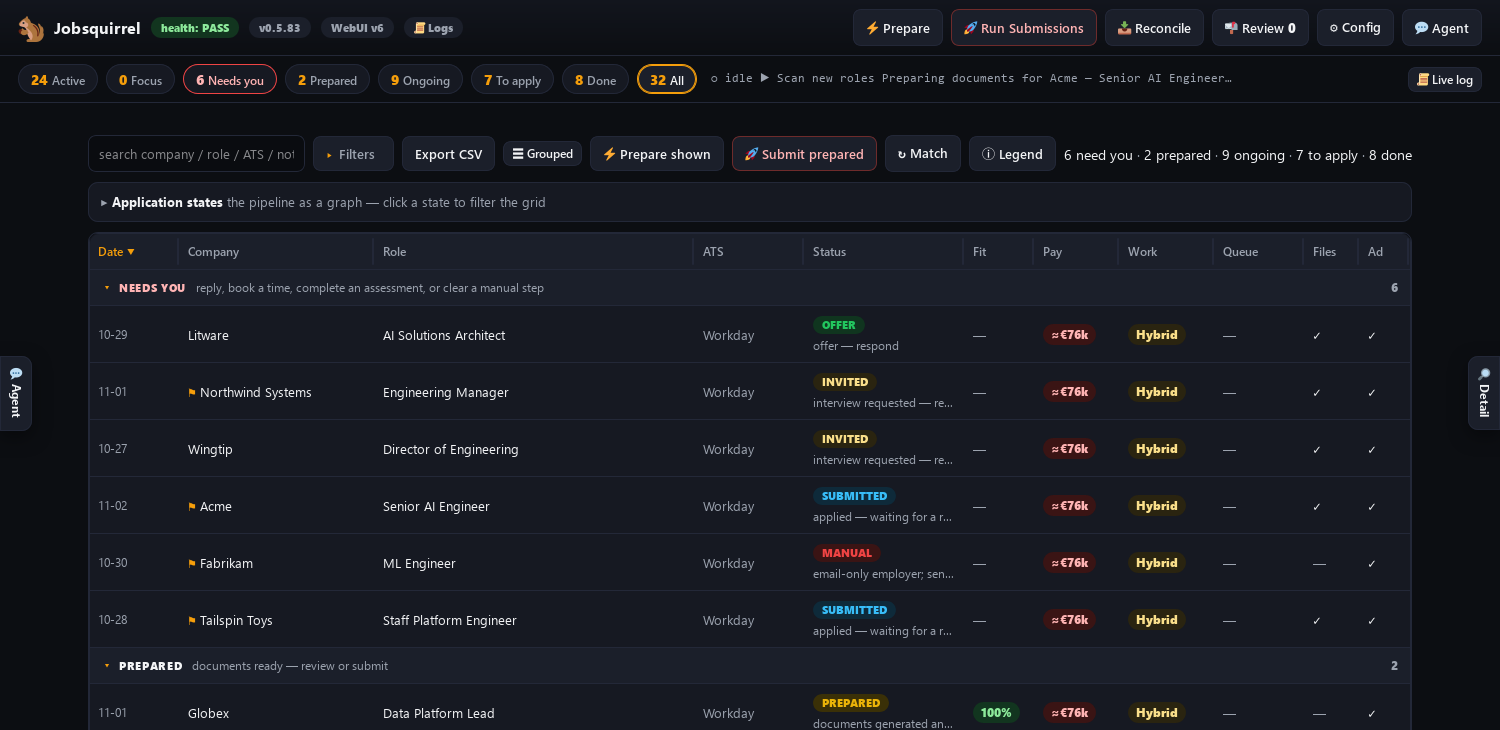
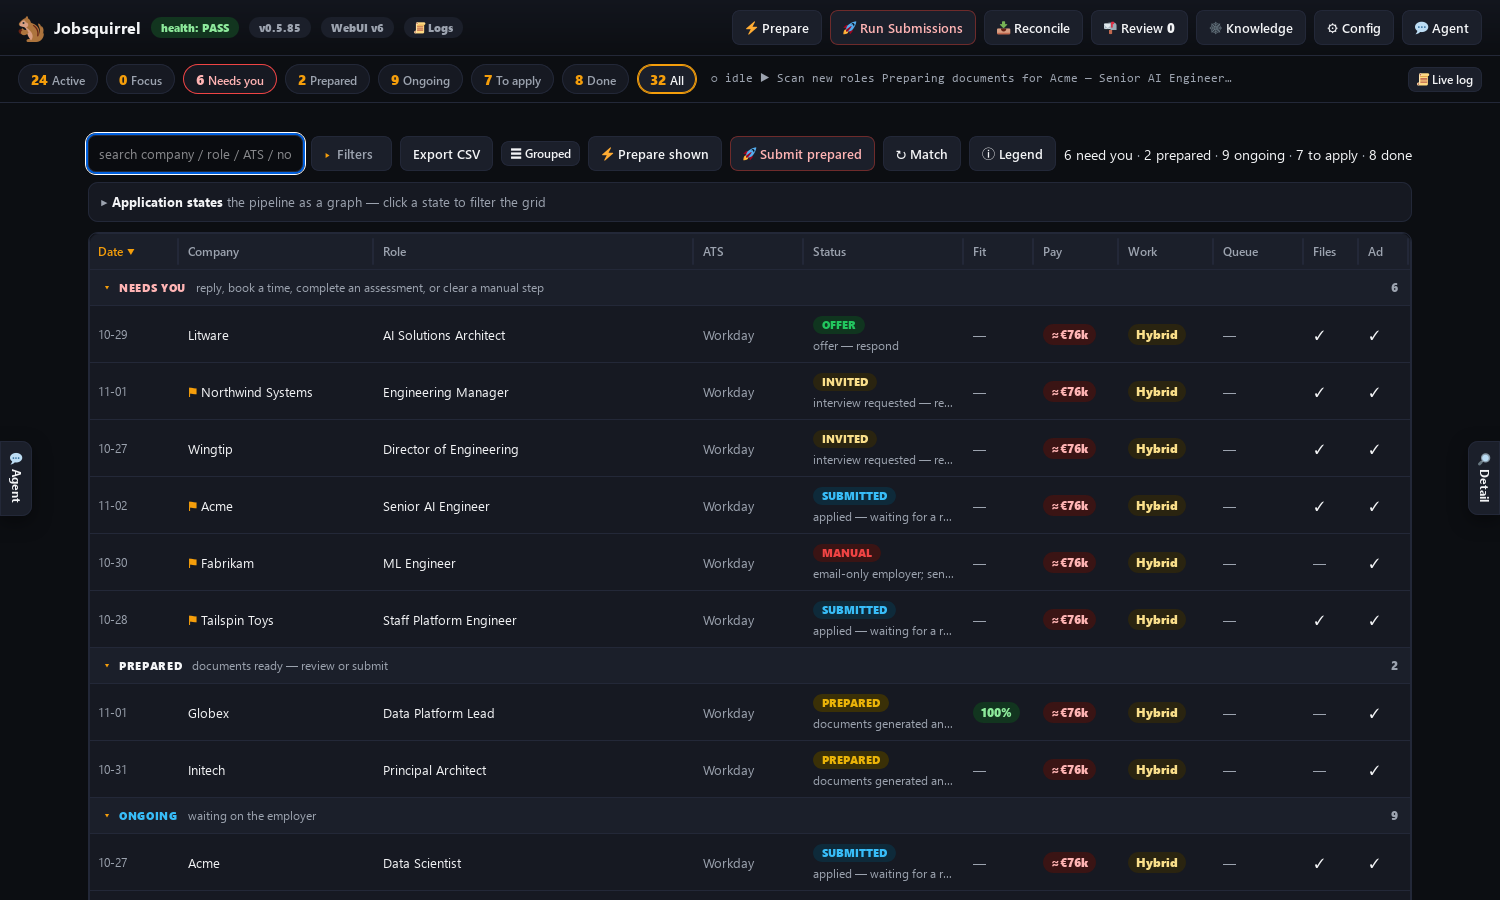
Refresh the documentation and screenshots
Update the product spec, architecture and usage guide for the full-page 3D
Knowledge workspace, the ontology, source management and the encrypted
Secrets store. Replace every dashboard screenshot with the current build
using demo data, and add the Knowledge workspace and Secrets shots.

diff --git a/docs/PRODUCT-SPEC.md b/docs/PRODUCT-SPEC.md
@@ -226,10 +226,12 @@ Clicking a row opens a drawer with tabs:
   open either in the viewer and to open the CV PDF; the raw content pack is behind a toggle.
 
 ### 9.5 Settings panel (⚙ Config)
-- Sections: **Accounts** (status + Gmail/Calendar authorisation), **AI & agent** (which agent CLI +
-  model picker + API-token env, and the GraphRAG LLM `.env`), **Knowledge base** (list / upload /
-  delete sources, rebuild the index), **GraphRAG** (browse entities / relationships / communities /
-  documents), **Agent permissions** (per-category allow/ask/deny), **Profile & CV** (edit files, regenerate).
+- Sections: **Accounts** (status + Gmail/Calendar authorisation), **Secrets** (the encrypted
+  store: agent keys, GraphRAG, Google OAuth, per-site logins and custom entries, masked),
+  **AI & agent** (which agent CLI + model picker + API-token env, and the GraphRAG LLM settings),
+  **Knowledge base** (list / upload / delete sources, rebuild the index), **GraphRAG** (a status card
+  and launcher for the full-page Knowledge workspace), **Agent permissions**
+  (per-category allow/ask/deny), **Profile & CV** (edit files, regenerate), **Backup & data**.
 
 ### 9.5b Agent permission gate (agent-agnostic)
 - Policy in `config/agent-permissions.json`: `read_repo`/`write_repo` (default **allow**),
@@ -276,6 +278,16 @@ Clicking a row opens a drawer with tabs:
 | GET | `/api/accounts` | — | credential status (runs `setup_accounts.sh --check`) |
 | GET | `/api/kb` | — | {sources, stats, check} |
 | GET | `/api/graph` | `kind,q,limit` | graph rows from the index (entities/relationships/communities/documents) |
+| GET | `/api/graph/ontology` | — | ontology classes, relation vocabulary and counts |
+| GET | `/api/graph/types` | `limit` | canonical classes with aggregate links |
+| GET | `/api/graph/type` | `type,limit` | largest connected component for one class |
+| GET | `/api/graph/overview` | `parent,limit` | community hierarchy (roots or children) |
+| GET | `/api/graph/community` | `id,limit` | children of a community or its leaf entities |
+| GET | `/api/graph/search` | `q,limit` | matching communities and entities |
+| GET | `/api/graph/ego` | `q,limit` | one entity plus its 1-hop network |
+| GET | `/api/kb/find` | `name` | resolve a graph document title to a `kb/sources/` file |
+| GET/POST | `/api/secrets` | — / `{section,name,value}` | masked secrets store read / write |
+| POST | `/api/secrets/delete` · `/api/secrets/encrypt` · `/api/secrets/migrate` | — | remove, encrypt or import |
 | GET | `/api/grounding` | `key` | a role's context pack + the entities/sources it cited, resolved |
 | GET | `/api/runs` · `/api/log` · `/api/live` · `/api/tasks` · `/api/logs/tail` · `/api/agent` · `/api/chat/stream` | — | as named |
 | POST | `/api/register/row` | `{company,role,status,notes}` | update a register row |
@@ -309,12 +321,27 @@ All POSTs require header `X-Session: <token>` (else 403); the token is injected 
 - **Regenerate archetype CVs:** `build_archetypes.py`. Safe.
 - Runs are detached and logged to `state/logs/dashboard-action.log`.
 
-### 9.9b Settings panel & knowledge graph
-- **Settings** (⚙ Config) has sections: **Accounts** (credential status + Gmail/Calendar
-  authorisation), **Knowledge base** (list/upload/delete source documents, rebuild the index),
-  **GraphRAG** (browse entities / relationships / communities / documents from the index), and
-  **Profile & CV** (edit `profile.md` / `cv.json` / `archetypes.json`, regenerate archetypes).
-- Each role's detail drawer has a **Grounding** tab: the GraphRAG context pack plus the
+### 9.9b Knowledge workspace (top-bar **Knowledge**)
+- A **full-page** workspace, not a settings pane. It fills the area below the header and keeps the
+  job grid out of the way.
+- **Topics** — the ontology classes (Person, Organisation, Role, Skill, Technology, Project,
+  Metric, Certification, Education, Language, Location, Achievement, Concept), sized by entity
+  count, with links aggregated between classes. **Communities** — the generated GraphRAG hierarchy;
+  drill from a root community through its sub-communities to the entities. **Entities** — the
+  largest connected component for the selected class/community/ego network, so no disconnected
+  dots.
+- **3D scene** — Three.js with orbit/zoom/pan, drag, hover tooltip, glowing nodes, labelled edges and
+  a slow auto-rotate. Single-click selects and shows details; double-click opens the entity's ego
+  network, the community, or the class. Every node also has an HTML hotspot so clicking works even
+  on a small sphere.
+- **Details** shows class, description, source documents (click to open the original file) and
+  neighbours, with **Open community**, **Open topic** and **Focus ego network** actions.
+- **Classes** lists the ontology and relation vocabulary; **Sources** opens/uploads/deletes the
+  `kb/sources/` documents and rebuilds the index; **Add** records a fact or skill as a KB source;
+  **Roles** lists live roles and opens one in the job drawer (or prepares a queued role).
+- The ontology is editable in `config/ontology.json` (copy `config/ontology.example.json`). Unknown
+  GraphRAG types fall back to Concept.
+- Each role's detail drawer still has a **Grounding** tab: the GraphRAG context pack plus the
   entities and source documents it cited, resolved from the index.
 
 ### 9.10 Theming & UX

diff --git a/README.md b/README.md
@@ -68,6 +68,10 @@ demo data: a sample candidate and fictional companies.)
 |---|
 | ![Application states graph with a count for every stage](docs/screenshots/pipeline.png) |
 
+| The knowledge workspace — a full-page 3D map of ontology classes, communities and entities |
+|---|
+| ![Knowledge workspace: a 3D graph of classes with a selected class and its details](docs/screenshots/knowledge.png) |
+
 | Context menu — actions that fit the role's current state | Agent console — chat, delegated work and live activity |
 |---|---|
 | ![Right-click context menu on a role](docs/screenshots/context-menu.png) | ![Agent console with chat and activity](docs/screenshots/agent.png) |
@@ -76,13 +80,13 @@ demo data: a sample candidate and fictional companies.)
 |---|---|
 | ![Documents tab with the embedded CV](docs/screenshots/documents.png) | ![Evidence overlay: green lines are backed by the knowledge base, amber lines name a requirement it cannot confirm](docs/screenshots/evidence.png) |
 
-| Settings — model, accounts and permissions | Backup & restore — what is saved, and a safe restore |
+| Secrets — one encrypted store, masked values | Settings — model, accounts and permissions |
 |---|---|
-| ![Settings](docs/screenshots/settings.png) | ![Backup and restore](docs/screenshots/backup.png) |
+| ![Secrets tab: encrypted store with masked values](docs/screenshots/secrets.png) | ![Settings](docs/screenshots/settings.png) |
 
-| Legend — what every status, mark and queue state means |
-|---|
-| ![Status and queue legend](docs/screenshots/legend.png) |
+| Backup & restore — what is saved, and a safe restore | Legend — what every status, mark and queue state means |
+|---|---|
+| ![Backup and restore](docs/screenshots/backup.png) | ![Status and queue legend](docs/screenshots/legend.png) |
 
 ---
 
@@ -310,6 +314,7 @@ tools/                      # the pipeline (language/library-free CLI tools)
   identity.py               #   print your standard form answers (JSON)
   camoufox_server.py        #   one Camoufox browser behind a small HTTP API
   camoufox_browser.py       #   the agent-facing browser CLI (nav/snap/click/fill/...)
+  camoufox_test.py          #   browser test harness (health/detection checks)
   run_queue.sh              #   the queue runner: applies to each queued role end-to-end
   agent_run.sh              #   runs one headless task with opencode, Claude Code or any CLI agent
   compat/                   #   portable flock/setsid/timeout for macOS
@@ -335,6 +340,8 @@ tools/                      # the pipeline (language/library-free CLI tools)
   stateio.py                #   transparent gzip for state artifacts, so packed reads like plain
   dashboard.py              #   slick web UI over the register, queue, runs + curated logs, live view, chat (agent-agnostic)
   graph_explore.py          #   reads the GraphRAG index (entities/relationships/communities) for the web UI
+  ontology.py               #   the classes/relations used by the knowledge workspace
+  secrets_store.py          #   encrypted secrets store (OS keyring or 0600 key file)
   setup_kb.sh               #   explain + build the GraphRAG knowledge base
   kb_graphrag.py            #   build the cited grounding pack per role (required)
   kb_update.sh              #   incremental GraphRAG update from new kb/sources/

diff --git a/docs/ARCHITECTURE.md b/docs/ARCHITECTURE.md
@@ -85,7 +85,27 @@ sorts the queue file itself by seniority.
 - **Approval and access**: `approval.py` (risky actions), `send_receipt.py`
   (one-time human receipts for a specific send), `agent_access.py` (the gate for
   anything outside the repo: read, write, run).
-- **Grounding (required)**: `kb_graphrag.py` (+ `kb/`), `embeddings.sh`.
+- **Grounding (required)**: `kb_graphrag.py` (+ `kb/`), `embeddings.sh`,
+  `graph_explore.py` (read the index), `ontology.py` (+ `config/ontology.example.json`),
+  `web/graph3d.js` (the Three.js Knowledge workspace).
+- **Secrets**: `secrets_store.py` (encrypted 0600 store; OS keyring or key file),
+  `accounts.py`, `google_config.py`, `diagnostics` via `doctor.py`.
+
+## Knowledge workspace
+
+The top-bar **Knowledge** page is a full-page Three.js view over the same
+GraphRAG index. `graph_explore.py` exposes class aggregates, the community
+hierarchy, connected entity subgraphs and ego networks; `ontology.py` maps
+GraphRAG types to the classes shown in `config/ontology.example.json`. The
+frontend (`web/graph3d.js`) owns the scene, orbit/zoom/pan, raycast and HTML
+hotspots; `dashboard.py` owns the breadcrumbs, search, source management and
+role links. Entity views keep the largest connected component so the picture
+does not fill with floating, disconnected nodes.
+
+The **Roles** tab in the workspace is the bridge to applications: it lists
+register rows and opens one in the existing job drawer, or prepares a queued
+role. The ontology's `REQUIRES` / `SATISFIES` vocabulary is the place to grow
+role-to-evidence edges without changing the graph renderer.
 
 ## Machine-local state and compression
 

diff --git a/docs/USING-IT.md b/docs/USING-IT.md
@@ -95,6 +95,21 @@ Everything is observable. Useful things to ask for, or run yourself:
 - **Human-only items**: `state/queue-human.tsv`, opened with
   `bash tools/human_assist.sh`.
 
+## The Knowledge workspace
+
+The top-bar **Knowledge** page is the full-page view of your knowledge base.
+**Topics** shows the ontology classes and their links; **Communities** drills
+through the generated community hierarchy; clicking an entity shows its
+description, neighbours and source documents, and double-clicking opens its ego
+network. The **Classes** tab lists the ontology, **Sources** uploads/deletes/
+rebuilds the documents, **Add** records a fact or skill, and **Roles** opens a
+role in the application drawer (or prepares a queued role). Drag to orbit,
+scroll to zoom, right-drag to pan.
+
+The graph and the application drawer share the same evidence: a claim you add
+under **Add** becomes a knowledge-base source for the next rebuild, and a role
+you open under **Roles** uses the same grounding and gates as a queue run.
+
 ## Backup, restore and start over
 
 Settings → **Backup & data** covers the three things you do around the edges of
